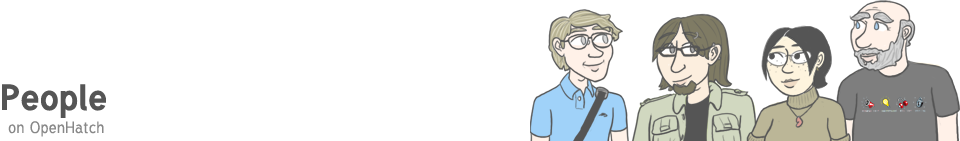
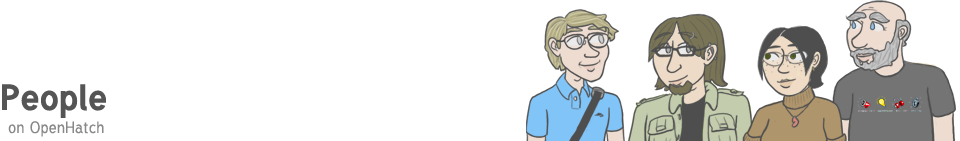
Made things more colorful, fixed gap problem on People

Changed region(s): [[0.5312, 0.0, 1.0, 1.0]]

diff --git a/mysite/profile/templates/profile/search_people.html b/mysite/profile/templates/profile/search_people.html
@@ -1,8 +1,14 @@
 {% extends 'base/one_column.html' %}
 
-{% block css_append_to_base_one_column %}
+{% block title %}
+People
+{{ block.super }}
+{% endblock title %}
+
+{% block css %}
+{{ block.super}}
 @import url('/static/css/profile/search_people.css') all;
-{% endblock css_append_to_base_one_column %}
+{% endblock css %}
 
 {% block main %}
 <img alt='People on OpenHatch' id='people-search' alt='People on OpenHatch' src='/static/images/people-search.png' />

diff --git a/mysite/static/css/list_of_people.css b/mysite/static/css/list_of_people.css
@@ -8,8 +8,9 @@
     padding: 0;
 }
 
-#big-people-list img {
-    margin: 0 0 -5px 0;
+#main img {
+    position: relative;
+    top: 3px;
     padding: 0;
 }
 #big-people-list ul {

diff --git a/mysite/static/css/profile/search_people.css b/mysite/static/css/profile/search_people.css
@@ -1,6 +1,12 @@
 #big-people-list {
     float: left;
 }
+
+#main img {
+    margin: 0 0 -3px 0;
+    padding: 0;
+}
+
 #big-people-list ul {
     width: 910px;
     float: left;
